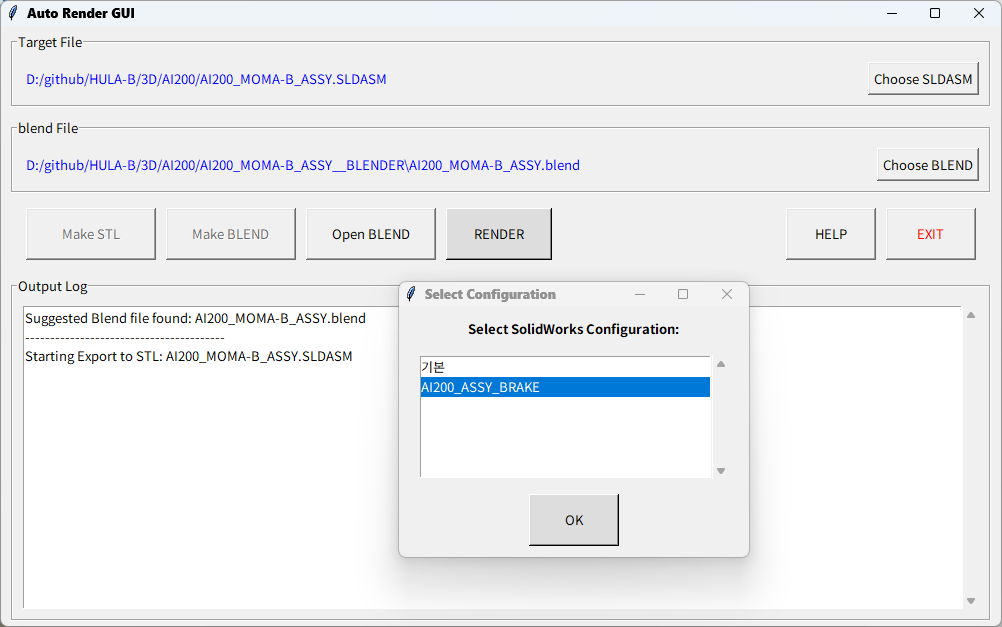
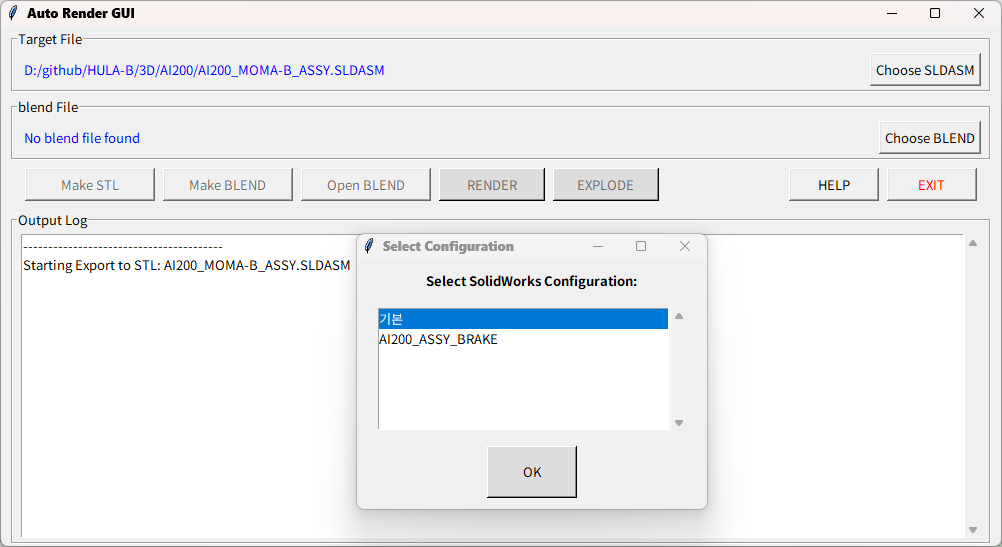
Add EXPLODE button feature, optimize layout height/padding and update README

diff --git a/AUTO_RENDER_GUI.py b/AUTO_RENDER_GUI.py
@@ -19,7 +19,7 @@ class AutoRenderApp:
         self.root = root
         self.root.option_add("*Font", "TkDefaultFont")
         self.root.title("Auto Render GUI")
-        self.root.geometry("1000x600")
+        self.root.geometry("1000x520")
         
         # Variables
         self.selected_file_path = tk.StringVar()
@@ -37,8 +37,8 @@ class AutoRenderApp:
 
     def setup_ui(self):
         # 1. File Selection Frame
-        frame_file = tk.LabelFrame(self.root, text="Target File", padx=10, pady=10)
-        frame_file.pack(fill="x", padx=10, pady=5)
+        frame_file = tk.LabelFrame(self.root, text="Target File", padx=8, pady=4)
+        frame_file.pack(fill="x", padx=10, pady=2)
         
         lbl_file = tk.Label(frame_file, textvariable=self.selected_file_path, fg="blue", wraplength=800, anchor="w")
         lbl_file.pack(side="left", fill="x", expand=True)
@@ -47,8 +47,8 @@ class AutoRenderApp:
         btn_browse.pack(side="right")
 
         # 1.5. Blend File Selection Frame
-        frame_blend = tk.LabelFrame(self.root, text="blend File", padx=10, pady=10)
-        frame_blend.pack(fill="x", padx=10, pady=5)
+        frame_blend = tk.LabelFrame(self.root, text="blend File", padx=8, pady=4)
+        frame_blend.pack(fill="x", padx=10, pady=2)
         
         lbl_blend = tk.Label(frame_blend, textvariable=self.selected_blend_path, fg="blue", wraplength=800, anchor="w")
         lbl_blend.pack(side="left", fill="x", expand=True)
@@ -57,31 +57,34 @@ class AutoRenderApp:
         btn_browse_blend.pack(side="right")
         
         # 2. Action Buttons Frame
-        frame_actions = tk.Frame(self.root, padx=10, pady=10)
-        frame_actions.pack(fill="x", padx=10)
+        frame_actions = tk.Frame(self.root, padx=10, pady=4)
+        frame_actions.pack(fill="x", padx=10, pady=2)
         
-        self.btn_stl = tk.Button(frame_actions, text="Make STL", command=self.run_make_stl, width=15, height=2, state="disabled")
-        self.btn_stl.pack(side="left", padx=5)
+        self.btn_stl = tk.Button(frame_actions, text="Make STL", command=self.run_make_stl, width=15, height=1, state="disabled")
+        self.btn_stl.pack(side="left", padx=4)
         
-        self.btn_blend = tk.Button(frame_actions, text="Make BLEND", command=self.run_make_blend, width=15, height=2, state="disabled")
-        self.btn_blend.pack(side="left", padx=5)
+        self.btn_blend = tk.Button(frame_actions, text="Make BLEND", command=self.run_make_blend, width=15, height=1, state="disabled")
+        self.btn_blend.pack(side="left", padx=4)
         
-        self.btn_open = tk.Button(frame_actions, text="Open BLEND", command=self.run_open_blend, width=15, height=2, state="disabled")
-        self.btn_open.pack(side="left", padx=5)
+        self.btn_open = tk.Button(frame_actions, text="Open BLEND", command=self.run_open_blend, width=15, height=1, state="disabled")
+        self.btn_open.pack(side="left", padx=4)
         
         # Render UI
-        self.btn_render = tk.Button(frame_actions, text="RENDER", command=self.run_render, width=12, height=2, state="disabled", bg="#dddddd")
-        self.btn_render.pack(side="left", padx=5)
+        self.btn_render = tk.Button(frame_actions, text="RENDER", command=self.run_render, width=12, height=1, state="disabled", bg="#dddddd")
+        self.btn_render.pack(side="left", padx=4)
         
-        btn_exit = tk.Button(frame_actions, text="EXIT", command=self.root.quit, width=10, height=2, fg="red")
-        btn_exit.pack(side="right", padx=5)
+        self.btn_explode = tk.Button(frame_actions, text="EXPLODE", command=self.run_explode, width=12, height=1, state="disabled", bg="#dddddd")
+        self.btn_explode.pack(side="left", padx=4)
         
-        btn_help = tk.Button(frame_actions, text="HELP", command=self.open_help, width=10, height=2)
-        btn_help.pack(side="right", padx=5)
+        btn_exit = tk.Button(frame_actions, text="EXIT", command=self.root.quit, width=10, height=1, fg="red")
+        btn_exit.pack(side="right", padx=4)
+        
+        btn_help = tk.Button(frame_actions, text="HELP", command=self.open_help, width=10, height=1)
+        btn_help.pack(side="right", padx=4)
         
         # 3. Log Area
-        frame_log = tk.LabelFrame(self.root, text="Output Log", padx=10, pady=10)
-        frame_log.pack(fill="both", expand=True, padx=10, pady=5)
+        frame_log = tk.LabelFrame(self.root, text="Output Log", padx=8, pady=4)
+        frame_log.pack(fill="both", expand=True, padx=10, pady=2)
         
         self.txt_log = scrolledtext.ScrolledText(frame_log, state='disabled', height=10, font="TkDefaultFont")
         self.txt_log.pack(fill="both", expand=True)
@@ -147,6 +150,7 @@ class AutoRenderApp:
             self.selected_blend_path.set(blend_file)
             self.btn_open.config(state="normal")
             self.btn_render.config(state="normal")
+            self.btn_explode.config(state="normal")
 
     def run_command(self, cmd):
         """Runs a subprocess and streams output to log."""
@@ -270,6 +274,7 @@ class AutoRenderApp:
             return
              
         self.btn_render.config(state="disabled")
+        self.btn_explode.config(state="disabled")
         self.log("-" * 40)
         self.log(f"Starting Render: {os.path.basename(blend_file)}")
         self.log("Resolution: Keep blend file settings")
@@ -280,6 +285,159 @@ class AutoRenderApp:
         def task():
             self.run_command(cmd)
             self.root.after(0, lambda: self.btn_render.config(state="normal"))
+            self.root.after(0, lambda: self.btn_explode.config(state="normal"))
+
+        threading.Thread(target=task, daemon=True).start()
+
+    def run_explode(self):
+        blend_file = self.selected_blend_path.get()
+        if not blend_file or blend_file in ("No blend file selected", "No blend file found"):
+            messagebox.showerror("Error", "No Blender file selected or found.")
+            return
+
+        if not os.path.exists(blend_file):
+            messagebox.showerror("Error", f"Blend file not found:\n{blend_file}")
+            return
+             
+        self.btn_render.config(state="disabled")
+        self.btn_explode.config(state="disabled")
+        self.log("-" * 40)
+        self.log(f"Starting Explode Render Sequence: {os.path.basename(blend_file)}")
+        
+        # 1. Copy the blend file with _explode suffix
+        explode_blend_file = f"{os.path.splitext(blend_file)[0]}_explode.blend"
+        try:
+            shutil.copy(blend_file, explode_blend_file)
+            self.log(f"Copied blend file to: {os.path.basename(explode_blend_file)}")
+        except Exception as e:
+            self.log(f"Failed to copy blend file: {e}", is_error=True)
+            self.btn_render.config(state="normal")
+            self.btn_explode.config(state="normal")
+            return
+
+        # Get Blender Exe Path
+        blender_exe = "blender"
+        if os.path.exists("blender_exe.txt"):
+            with open("blender_exe.txt", "r") as f:
+                content = f.read().strip()
+                if content: blender_exe = content
+
+        # Create temporary python script for Blender
+        temp_script_path = os.path.join(os.path.dirname(explode_blend_file), "_temp_explode_render.py")
+        temp_script_path = os.path.normpath(temp_script_path)
+        
+        explode_py_path = os.path.normpath(os.path.join(os.path.dirname(os.path.abspath(__file__)), "explode.py"))
+        
+        script_content = f"""
+import bpy
+import os
+import sys
+
+# Configure Render Settings
+bpy.context.scene.render.engine = 'CYCLES'
+bpy.context.scene.cycles.device = 'GPU'
+bpy.context.scene.cycles.samples = 64
+bpy.context.scene.cycles.use_denoising = False
+
+# Configure GPU device type
+try:
+    cycles_pref = bpy.context.preferences.addons['cycles'].preferences
+    for dev_type in ('OPTIX', 'CUDA', 'HIP', 'ONEAPI'):
+        try:
+            cycles_pref.compute_device_type = dev_type
+            cycles_pref.get_devices()
+            has_gpu = False
+            for dev in cycles_pref.devices:
+                if dev.type != 'CPU':
+                    dev.use = True
+                    has_gpu = True
+                else:
+                    dev.use = False
+            if has_gpu:
+                print(f"Cycles GPU Compute Device Type configured: {{dev_type}}")
+                break
+        except Exception:
+            pass
+except Exception as e:
+    print(f"Warning: Could not configure Cycles GPU preferences: {{e}}")
+
+# Resolution settings (800x600, 100%)
+bpy.context.scene.render.resolution_x = 800
+bpy.context.scene.render.resolution_y = 600
+bpy.context.scene.render.resolution_percentage = 100
+
+# Frame rate: 30 fps
+bpy.context.scene.render.fps = 30
+
+# Output path: same path as blend file, media type: video (FFMPEG, container: MPEG4)
+bpy.context.scene.render.filepath = os.path.dirname(bpy.data.filepath) + "/"
+bpy.context.scene.render.image_settings.media_type = 'VIDEO'
+bpy.context.scene.render.image_settings.file_format = 'FFMPEG'
+bpy.context.scene.render.ffmpeg.format = 'MPEG4'
+
+# Copy explode.py code into Scripting window (Text block) and execute it
+explode_py_path = {repr(explode_py_path)}
+print(f"Loading explode.py script from: {{explode_py_path}}")
+try:
+    with open(explode_py_path, 'r', encoding='utf-8') as f:
+        explode_code = f.read()
+    
+    # Create text block in blender
+    text_block = bpy.data.texts.new(name="explode.py")
+    text_block.from_string(explode_code)
+    
+    # Execute the text block code
+    print("Executing explode.py to generate timeline...")
+    exec(compile(explode_code, 'explode.py', 'exec'), globals())
+    print("explode.py execution complete.")
+except Exception as e:
+    print(f"Error executing explode.py: {{e}}")
+    sys.exit(1)
+
+# Save the blend file
+print(f"Saving modified blend file to: {{bpy.data.filepath}}")
+bpy.ops.wm.save_as_mainfile(filepath=bpy.data.filepath, relative_remap=False)
+
+# Render animation
+print("Starting animation render...")
+bpy.ops.render.render(animation=True)
+print("Animation render complete!")
+"""
+
+        try:
+            with open(temp_script_path, "w", encoding="utf-8") as f:
+                f.write(script_content)
+        except Exception as e:
+            self.log(f"Error creating temp render script: {e}", is_error=True)
+            self.btn_render.config(state="normal")
+            self.btn_explode.config(state="normal")
+            return
+
+        cmd = [blender_exe, "-b", explode_blend_file, "-P", temp_script_path]
+        
+        def task():
+            ret = self.run_command(cmd)
+            
+            # Clean up temp script
+            if os.path.exists(temp_script_path):
+                try:
+                    os.remove(temp_script_path)
+                except Exception as e:
+                    self.log(f"Warning: Failed to delete temp script: {e}", is_error=True)
+            
+            if ret == 0:
+                self.log("=" * 60)
+                self.log("EXPLODE ANIMATION RENDER COMPLETED SUCCESSFULLY!")
+                self.log(f"Exploded Blender File: {os.path.basename(explode_blend_file)}")
+                self.log(f"Output files saved to: {os.path.dirname(explode_blend_file)}")
+                self.log("=" * 60)
+            else:
+                self.log("=" * 60)
+                self.log("EXPLODE ANIMATION RENDER FAILED!", is_error=True)
+                self.log("=" * 60)
+
+            self.root.after(0, lambda: self.btn_render.config(state="normal"))
+            self.root.after(0, lambda: self.btn_explode.config(state="normal"))
 
         threading.Thread(target=task, daemon=True).start()
 
@@ -324,10 +482,12 @@ class AutoRenderApp:
             self.log(f"Suggested Blend file found: {os.path.basename(blend_file)}")
             self.btn_open.config(state="normal")
             self.btn_render.config(state="normal")
+            self.btn_explode.config(state="normal")
             self.selected_blend_path.set(blend_file)
         else:
             self.btn_open.config(state="disabled")
             self.btn_render.config(state="disabled")
+            self.btn_explode.config(state="disabled")
             self.selected_blend_path.set("No blend file found")
 
 if __name__ == "__main__":

diff --git a/explode.py b/explode.py
@@ -1,0 +1,104 @@
+import bpy
+import mathutils
+
+def get_sorting_key_y(obj):
+    """
+    Determines the sorting key based on the bounding box position.
+    If the max Y is negative, it returns the minimum Y (outermost left).
+    Otherwise, it returns the maximum Y (outermost right).
+    """
+    matrix_world = obj.matrix_world
+    world_y_coords = [(matrix_world @ mathutils.Vector(corner)).y for corner in obj.bound_box]
+    
+    max_y = max(world_y_coords)
+    min_y = min(world_y_coords)
+    
+    # If the entire part is in the negative Y region, use the minimum Y as the sorting baseline
+    if max_y < 0:
+        return min_y
+    return max_y
+
+def create_adaptive_bbox_y_explosion(factor=5.0, total_seconds=20.0):
+    """
+    factor: Explosion distance multiplier
+    total_seconds: Total animation duration in seconds (Default: 20.0s)
+    """
+    # 1. Gather all mesh objects in the scene
+    all_objects = [obj for obj in bpy.context.scene.objects if obj.type == 'MESH']
+    
+    num_parts = len(all_objects)
+    if num_parts == 0:
+        print("No mesh objects found in the scene.")
+        return
+
+    # Clear existing animation data to prevent conflicts
+    for obj in all_objects:
+        if obj.animation_data:
+            obj.animation_data_clear()
+
+    # 2. Sort objects using the adaptive bounding box logic
+    # Parts are sorted from the highest/outermost Y coordinate down to the lowest
+    sorted_objects = sorted(
+        all_objects, 
+        key=get_sorting_key_y, 
+        reverse=True
+    )
+
+    # 3. Calculate the global average Y center to determine the explosion direction
+    total_y = sum(obj.location.y for obj in all_objects)
+    global_center_y = total_y / num_parts
+
+    # 4. Calculate equal frame distribution based on a fixed 20-second duration
+    fps = bpy.context.scene.render.fps  
+    total_frames = int(total_seconds * fps)  # 20s * 30fps = 600 frames
+    
+    # Timeline split: 60% for sequential delays, 40% for individual movement duration
+    if num_parts > 1:
+        delay_offset = (total_frames * 0.6) / (num_parts - 1)
+        duration = total_frames * 0.4
+    else:
+        delay_offset = 0
+        duration = total_frames
+
+    scene = bpy.context.scene
+    current_delay = 0.0  
+
+    # 5. Generate keyframes for sorted objects sequentially
+    for obj in sorted_objects:
+        # Determine explosion direction along the Y-axis relative to the global center
+        direction_y = 1.0 if obj.location.y >= global_center_y else -1.0
+        if obj.location.y == global_center_y:
+            direction_y = 1.0
+
+        # Convert frame values to integers for inserting keyframes
+        start_frame = int(1 + current_delay)
+        
+        # Lock initial assembly position at frame 1
+        scene.frame_set(1)
+        obj.keyframe_insert(data_path="location", index=1)
+        
+        # Keep the object stationary until its specific start frame arrives
+        scene.frame_set(start_frame)
+        obj.keyframe_insert(data_path="location", index=1)
+        
+        # Smoothly move to the exploded position over the calculated duration
+        end_frame = int(start_frame + duration)
+        scene.frame_set(end_frame)
+        
+        # Apply displacement along the Y-axis
+        obj.location.y += direction_y * factor
+        obj.keyframe_insert(data_path="location", index=1)
+        
+        # Accumulate delay for the next subsequent part
+        current_delay += delay_offset
+        
+    # Reset timeline to frame 1 and update the scene's end frame range
+    scene.frame_set(1)
+    scene.frame_end = total_frames
+    
+    print(f"--- Adaptive Bounding Box Explosion Configuration Complete ---")
+    print(f"Total Parts: {num_parts} | Total Time: {total_seconds}s ({total_frames} frames)")
+    print(f"Movement Duration: {int(duration)}f | Delay Offset: {delay_offset:.2f}f")
+
+# Execute the script
+create_adaptive_bbox_y_explosion(factor=5.0, total_seconds=20.0)

diff --git a/README.md b/README.md
@@ -93,6 +93,16 @@
 * 백그라운드(헤드리스)에서 블렌더의 고품질 **Cycles GPU 렌더러**가 실행되어, 미리 세팅된 4가지 Isometric 카메라 각도에서 고품질 제품 이미지를 자동으로 차례대로 렌더링합니다.
 * 결과물은 `.blend` 파일이 있는 `__BLENDER` 폴더 내에 투명 배경(`RGBA PNG`) 형태로 저장됩니다.
 
-#### **Step 7: 종료 (`EXIT`)**
+#### **Step 7: 조립분해도 애니메이션 렌더링 (`EXPLODE`)**
+* **`EXPLODE`** 버튼을 클릭하면 다음과 같은 조립분해도 애니메이션 렌더링 프로세스가 자동으로 시작됩니다:
+  1. 기존에 생성된 `.blend` 파일의 이름 뒤에 `_explode` 접미사를 붙여 복사본을 생성합니다.
+  2. 복사된 blend 파일을 열어, 최대 렌더 샘플수를 64로 조절하고 디노이즈(Denoising) 옵션을 비활성화합니다.
+  3. 해상도를 `800x600px` (100% 배율)로 변경하고 프레임 레이트를 `30 fps`로 변경합니다. 출력 경로는 blend 파일과 같은 경로로 지정되며, 미디어 유형은 비디오(`FFMPEG` MP4 형식)로 설정됩니다.
+  4. `explode.py` 애니메이션 스크립트 소스코드를 Blender의 스크립트 창(Text block)에 새로운 텍스트로 복사해 넣고 실행하여 순차 분해 애니메이션 타임라인을 새로 생성합니다.
+  5. 변경된 설정을 그대로 적용하여 blend 파일을 저장합니다.
+  6. 새로 만들어진 타임라인으로 최종 비디오 애니메이션 렌더링을 실시합니다. (시간이 많이 걸림)
+  7. 완료 시 GUI의 Output Log 창을 통해 성공적으로 완료되었음을 알리는 종료 메세지를 출력합니다.
+
+#### **Step 8: 종료 (`EXIT`)**
 * **`EXIT`** 버튼을 눌러 GUI를 닫고 전체 작업을 종료합니다.
 